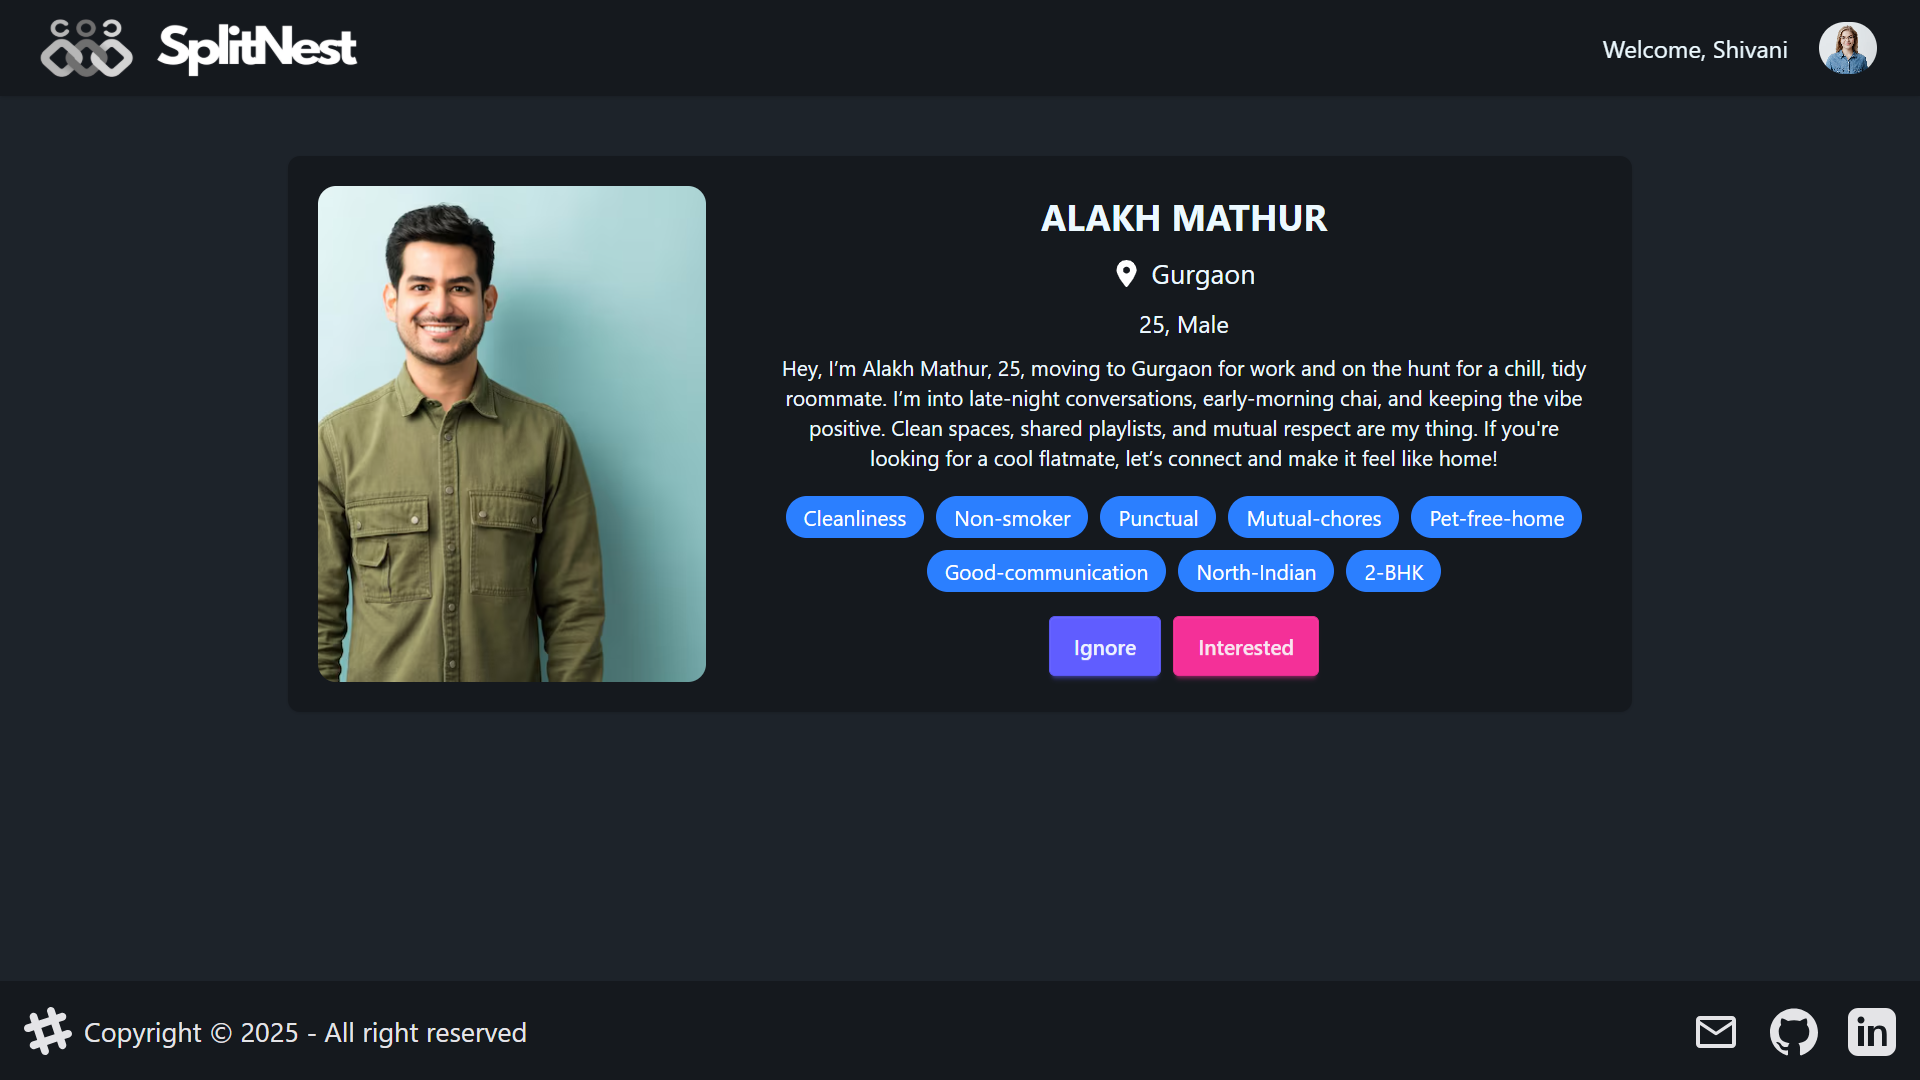
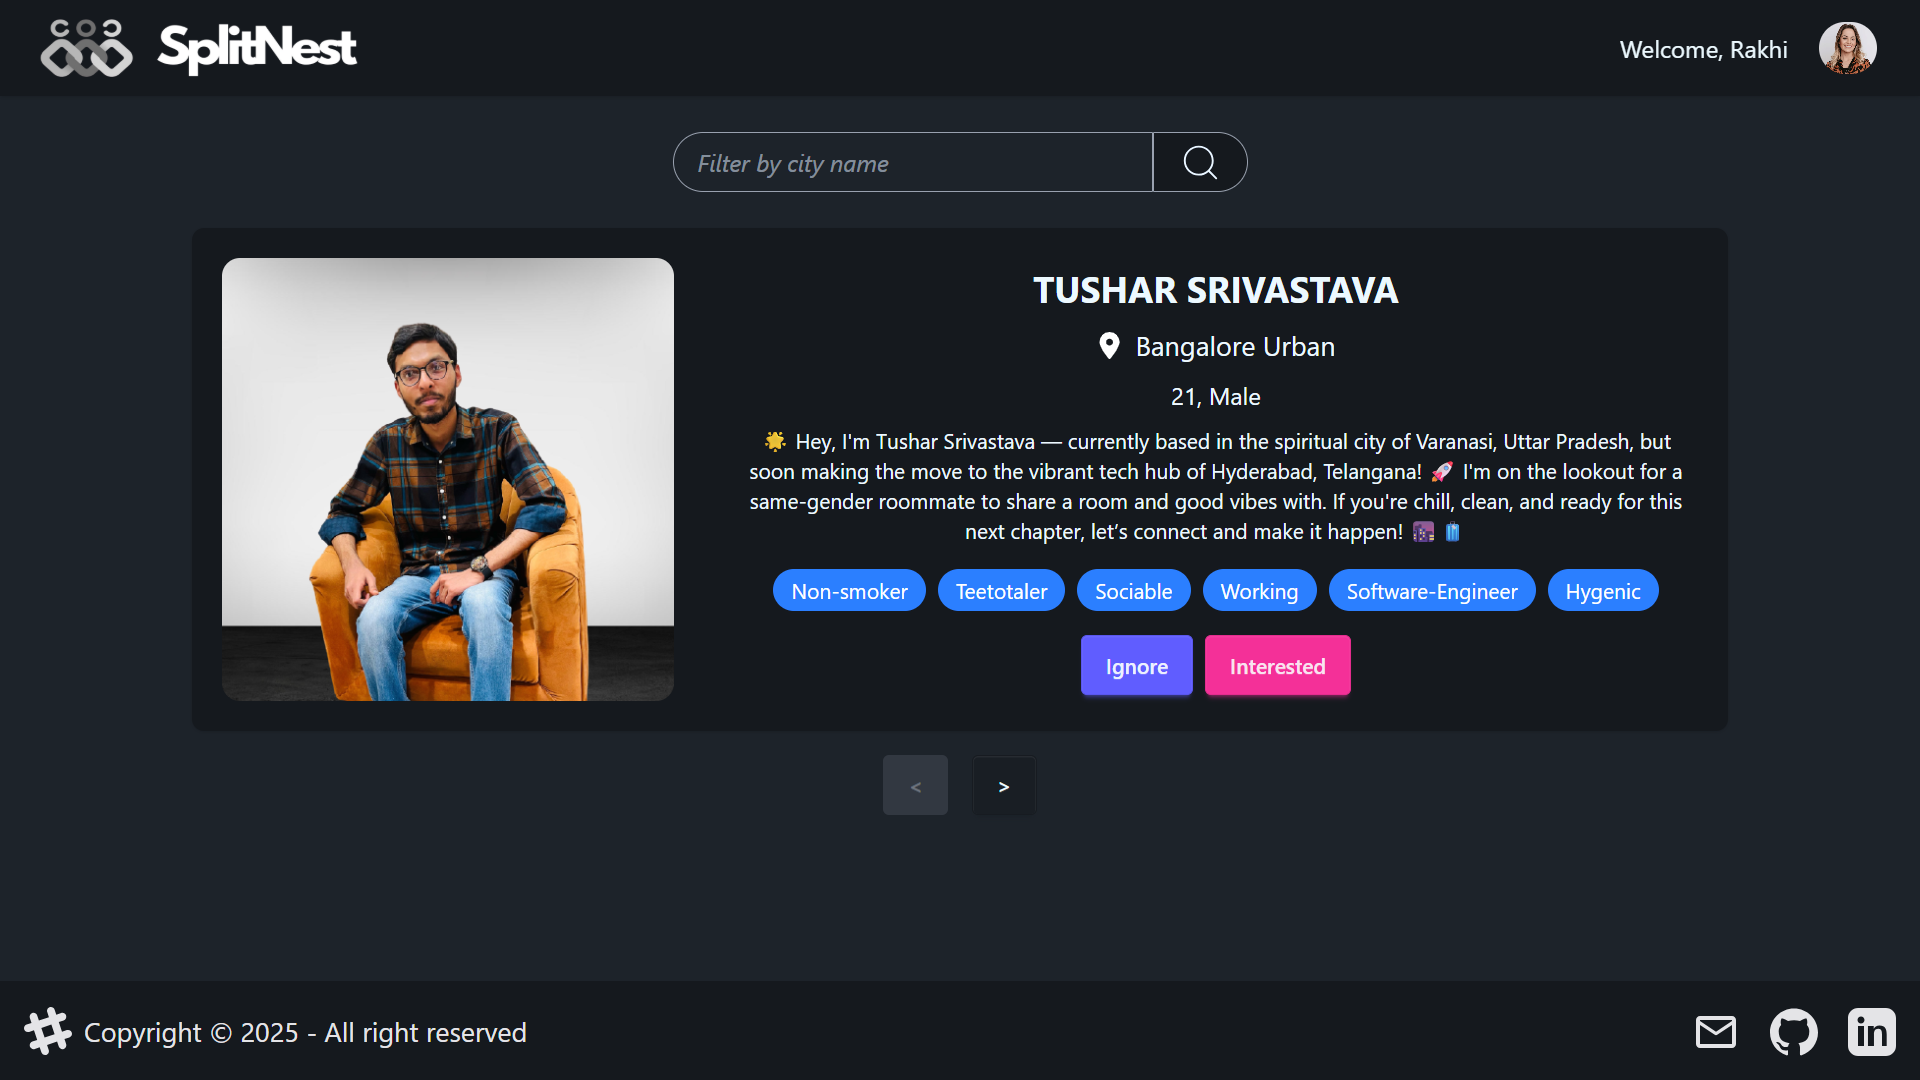
Updating README.md after final updates

Changed region(s): [[0.0938, 0.1222, 0.875, 0.6722], [0.8438, 0.0306, 0.9688, 0.0917], [0.5312, 0.1833, 0.6875, 0.2139]]

diff --git a/README.md b/README.md
@@ -2,6 +2,13 @@
 
 **ShareNest** is a comprehensive roommate-finding web application designed to help people—especially recent graduates—find compatible flatmates that match their preferences, location, and lifestyle. Moving to a new city is challenging, and finding the right person to share a space with shouldn't add to the stress.
 
+<p align="center">
+  <img src="https://img.shields.io/badge/MongoDB-47A248?style=for-the-badge&logo=mongodb&logoColor=white" />
+  <img src="https://img.shields.io/badge/Express.js-000000?style=for-the-badge&logo=express&logoColor=white" />
+  <img src="https://img.shields.io/badge/React-61DAFB?style=for-the-badge&logo=react&logoColor=black" />
+  <img src="https://img.shields.io/badge/Node.js-339933?style=for-the-badge&logo=node.js&logoColor=white" />
+</p>
+
 ---
 
 ## 📚 Table of Contents
@@ -27,6 +34,7 @@ When students graduate and move to new cities for jobs or higher education, find
 - Build connections through a secure request system
 - Communicate seamlessly with matched roommates
 - Make informed decisions based on comprehensive profiles
+- Filter profiles of the location where you are moving to
 
 ---
 
@@ -56,7 +64,7 @@ When students graduate and move to new cities for jobs or higher education, find
 
 ## 🚀 Live Demo
 
-🌐 [Visit ShareNest Live](https://your-deployed-site-link.com) *(Deployed Link coming soon)*
+🌐 [Visit ShareNest Live](https://share-nest-zeta.vercel.app/)
 
 ---
 
@@ -79,8 +87,10 @@ When students graduate and move to new cities for jobs or higher education, find
 - **Connections Dashboard** - View all your established connections
 
 ### ✅ Feed System
-- Displays a curated list of new users you haven't interacted with yet (no existing connection or pending requests).
-- Built with a pagination-based UI for smoother navigation and performance.
+- **Smart User Suggestions**: Displays a curated list of new users you haven't interacted with—no existing connections or pending requests.
+- **Pagination UI**: Built with pagination to ensure smooth navigation and optimal performance for large datasets.
+- **City-Based Filtering**: Easily filter profiles based on city names.
+- **Autocomplete with Debouncing**: Enhances the user experience with city name suggestions as you type, using debouncing to reduce unnecessary API calls and improve performance.
 
 ### 💬 Real-time Chat
 - **Instant Messaging** - Chat with connected roommates in real-time
@@ -108,6 +118,10 @@ When students graduate and move to new cities for jobs or higher education, find
 ![Edit Profile Page](./screenshots/editProfilePage.png)
 ### **Feed Page**
 ![Feed Page](./screenshots/feedPage.png)
+### **City Autocomplete in Feed**
+![Feed Page](./screenshots/autocomplete.png)
+### **Filter Profiles by city**
+![Feed Page](./screenshots/cityFilter.png)
 ### **Connection Requests Page**
 ![Connection Requests Page](./screenshots/connectionRequestsPage.png)
 ### **Connections Page**
@@ -129,6 +143,7 @@ When students graduate and move to new cities for jobs or higher education, find
 2. **Complete Profile** by adding your details, preferences, and lifestyle information
 3. **Login** and browse the feed for potential flatmates.
 4. To **Discover Roommates** browse through your feed.
+5. Apply **City Filter** to find roommates in specific city.
 5. **Send connection requests** to people you're interested in.
 6. **Accept or reject** requests received.
 7. **Start chatting** with people you’re connected with to explore compatibility further.
@@ -168,7 +183,7 @@ npm install
 ```
 
 #### 3. Configure Environment Variables
-Create a .env file in the root directory:
+Create a .env file in the /server directory:
 
 ```bash
 PORT=7777
@@ -191,6 +206,13 @@ cd client
 #### 2. Install Frontend Dependencies
 ```bash
 npm install
+```
+
+#### 3. Configure Environment Variables
+Create a .env file in the /client directory:
+
+```bash
+VITE_BACKEND_URL=your_backend_url
 ```
 
 #### 4. Start the Frontend Development Server
